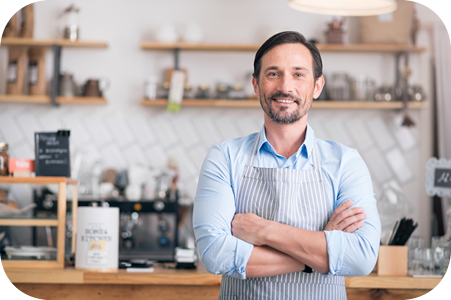
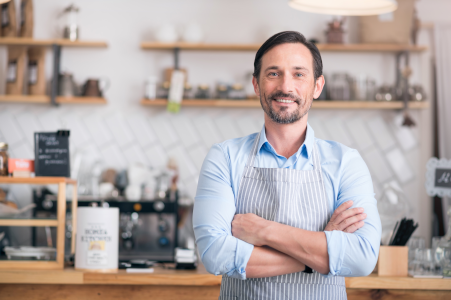
testing complete home page responsiveness

diff --git a/src/app/page.js b/src/app/page.js
@@ -11,7 +11,7 @@ import icoMemberPts from '@/assets/images/hmpgIcoPts.png';
 import icoMemberPhy from '@/assets/images/hmpgIcoPhy.png';
 import icoMemberEmp from '@/assets/images/hmpgIcoEmp.png';
 import hmpgLogo from '@/assets/images/logoLgt.png';
-import hmpgTablet from '@/assets/images/hmpgTablet.png';
+import hmpgTablet from '@/assets/images/hmpgTablet.jpg';
 import hmpgPts from '@/assets/images/hmpgIcoPts.png';
 import hmpgPhy from '@/assets/images/hmpgIcoPhy.png';
 import hmpgEmp from '@/assets/images/hmpgIcoEmp.png';
@@ -31,24 +31,24 @@ export default function Home() {
 							<div className='pbpgHdng'>Reuniting American Healthcare&apos;s Original Stakeholders to Restore the System to its Former Glory</div>
 						</div>
 					</div>
-					<div className='row mb-4'>
-						<div className='pbColSides text'>
+					<div className='row mb-4 d-flex align-items-center'>
+						<div className='pbColSides mb-3 mb-xl-0'>
 							<div className='pbpgText'>
-								<p>
+								<div className='mb-3'>
 									Introducing SUPERNOVA3X &ndash; a revolutionary Healthcare Software solution for America&apos;s ailing healthcare system,
 									empowering patients, employers, and physicians to take back control once and for all.
-								</p>
-								<p className='mb-4'>
+								</div>
+								<div>
 									&quot;The rules have changed. We are bidding farewell to the low-value, high-cost, overregulated system and welcoming
 									accessible, affordable healthcare like never before. Come and explore the Professional Healthcare Membership Platform that
 									has been specifically designed for American Healthcare&apos;s Original Stakeholders.&quot;
-								</p>
+								</div>
 							</div>
 						</div>
-						<div className='pbColCenter d-none d-lg-block'></div>
+						<div className='pbColCenter d-none d-xl-block'></div>
 						<div className='pbColSides'>
 							<div className='row'>
-								<div className='col-12 d-flex justify-content-center justify-content-lg-start'>
+								<div className='col-12 d-flex justify-content-center justify-content-xl-start'>
 									<Image className='pbColImg' src={hmpgTablet} priority={true} alt='Sample Offices' />
 								</div>
 							</div>
@@ -82,12 +82,12 @@ export default function Home() {
 			</div>
 			<div className='pbpgSection py-4'>
 				<div className='row mb-4'>
-					<div className='col-12 px-3 px-lg-5'>
+					<div className='col-12 px-3 px-xl-5'>
 						<div className='pbpgHdng'>Returning Financial Control of Healthcare to the Original Stake Holders</div>
 					</div>
 				</div>
 				<div className='row mb-4 d-flex justify-content-evenly justify-content-xl-center'>
-					<div className='finDiv mb-3 mb-xl-0'>
+					<div className='finDiv mb-5 mb-xl-0'>
 						<div className='row'>
 							<div className='col-12 d-flex justify-content-center'>
 								<Image className='hmpgIcoControl mb-3' src={hmpgPts} alt='Subscribers' />
@@ -126,6 +126,7 @@ export default function Home() {
 											<li className='finText'>And More</li>
 										</ul>
 									</ul>
+									<br />
 								</div>
 							</div>
 							<div className='row mt-5'>
@@ -141,7 +142,7 @@ export default function Home() {
 							</div>
 						</div>
 					</div>
-					<div className='finDiv mb-3 mb-xl-0 mx-xl-5'>
+					<div className='finDiv mb-5 mb-xl-0 mx-xl-5'>
 						<div className='row'>
 							<div className='col-12 d-flex justify-content-center'>
 								<Image className='hmpgIcoControl mb-3' src={hmpgPhy} alt='Physicians' />
@@ -180,6 +181,7 @@ export default function Home() {
 											<li className='finText'>Employer Integration</li>
 										</ul>
 									</ul>
+									<br />
 								</div>
 							</div>
 							<div className='row mt-5'>
@@ -227,13 +229,14 @@ export default function Home() {
 										<li className='finText'>More:</li>
 										<ul>
 											<li className='finText'>Network Directory</li>
-											<li className='finText'>Network Directory</li>
+											<li className='finText'>Prescription Plans</li>
 											<li className='finText'>Transparency</li>
 											<li className='finText'>No Gimmicks or Surprises</li>
 											<li className='finText'>No Failed Expectations</li>
 											<li className='finText'>No Premiums to increase</li>
 										</ul>
 									</ul>
+									<br />
 								</div>
 							</div>
 							<div className='row mt-5'>
@@ -259,7 +262,7 @@ export default function Home() {
 						</div>
 					</div>
 					<div className='row mb-4'>
-						<div className='pbColSides text'>
+						<div className='pbColSides d-flex align-items-center'>
 							<div className='row d-flex justify-content-center'>
 								<div className='col-12 mb-4'>
 									<div className='pbpgText center'>
@@ -276,8 +279,8 @@ export default function Home() {
 						</div>
 						<div className='pbColCenter d-none d-md-block'></div>
 						<div className='pbColSides'>
-							<div className='row'>
-								<div className='col-12 d-flex justify-content-center justify-content-lg-start'>
+							<div className='row mt-4 mt-xl-0'>
+								<div className='col-12 d-flex justify-content-center justify-content-xl-start'>
 									<Image className='pbColImg' src={hmpgMap} alt='Sample Offices' />
 								</div>
 							</div>
@@ -307,16 +310,16 @@ export default function Home() {
 							<div className='pbpgHdng'>For Patients</div>
 						</div>
 					</div>
-					<div className='row'>
-						<div className='pbColSides mb-4 mb-lg-0'>
+					<div className='row d-flex align-items-center'>
+						<div className='pbColSides mb-4 mb-xl-0'>
 							<div className='row'>
-								<div className='col-12 d-flex justify-content-center justify-content-lg-end'>
+								<div className='col-12 d-flex justify-content-center justify-content-xl-end'>
 									<Image className='pbColImg' src={hmpgPatient} alt='Patients' />
 								</div>
 							</div>
 						</div>
 						<div className='pbColCenter d-none d-md-block'></div>
-						<div className='pbColSides text'>
+						<div className='pbColSides'>
 							<div className='pbpgText center'>
 								<p>
 									<strong>
@@ -353,8 +356,8 @@ export default function Home() {
 							<div className='pbpgHdng'>For Physicians</div>
 						</div>
 					</div>
-					<div className='row'>
-						<div className='pbColSides text mb-2 mb-md-0'>
+					<div className='row d-flex align-items-center'>
+						<div className='pbColSides mb-2 mb-md-0'>
 							<div className='pbpgText center'>
 								<p>
 									<strong>
@@ -378,8 +381,8 @@ export default function Home() {
 						</div>
 						<div className='pbColCenter d-none d-md-block'></div>
 						<div className='pbColSides'>
-							<div className='row'>
-								<div className='col-12 d-flex justify-content-center justify-content-lg-start'>
+							<div className='row mt-4 mt-xl-0'>
+								<div className='col-12 d-flex justify-content-center justify-content-xl-start'>
 									<Image className='pbColImg red' src={hmpgPhysician} alt='Physicians' />
 								</div>
 							</div>
@@ -399,16 +402,16 @@ export default function Home() {
 							<div className='pbpgHdng'>For Sponsors</div>
 						</div>
 					</div>
-					<div className='row'>
-						<div className='pbColSides mb-4 mb-lg-0'>
+					<div className='row d-flex align-items-center'>
+						<div className='pbColSides mb-4 mb-xl-0'>
 							<div className='row'>
-								<div className='col-12 d-flex justify-content-center justify-content-lg-end'>
+								<div className='col-12 d-flex justify-content-center justify-content-xl-end'>
 									<Image className='pbColImg ppl' src={hmpgEmployer} alt='Employers' />
 								</div>
 							</div>
 						</div>
 						<div className='pbColCenter d-none d-md-block'></div>
-						<div className='pbColSides text'>
+						<div className='pbColSides'>
 							<div className='pbpgText center'>
 								<p>
 									<strong>Register for FREE with SUPERNOVA3X and access America&apos;s only Professional Healthcare Marketplace.</strong>
@@ -435,7 +438,7 @@ export default function Home() {
 			<div className='pbpgSection py-4'>
 				<div className='pbpgContainer'>
 					<div className='row mb-4'>
-						<div className='col-12 col-lg-10 offset-lg-1 px-3'>
+						<div className='col-12 px-3 px-lg-5'>
 							<div className='pbpgHdng'>Join the Revolution to Restore American Healthcare!</div>
 						</div>
 					</div>

diff --git a/src/app/globals.css b/src/app/globals.css
@@ -58,27 +58,11 @@
 	width: 47% !important;
 	height: auto;
 }
-.pbColSides.text {
-	width: 47% !important;
-	height: auto;
-	padding: 20px 40px;
-	border: 5px solid #555;
-	border-radius: 70px;
-}
 .pbpgText {
 	font-size: 17px;
 }
 .pbpgText.center {
 	text-align: center;
-}
-.pbpgText.blu {
-	color: #0000ff;
-}
-.pbpgText.red {
-	color: #ff0000;
-}
-.pbpgText.ppl {
-	color: #8000ff;
 }
 .pbColCenter {
 	width: 6% !important;
@@ -88,7 +72,7 @@
 	width: 100% !important;
 	height: auto;
 	border: 5px solid #555;
-	border-radius: 70px;
+	border-radius: 40px;
 }
 .icoSectionHdng {
 	width: auto;
@@ -141,40 +125,41 @@
 	.pbpgContainer {
 		width: 100%;
 	}
-	.pbColImg {
-		width: 90%;
-	}
-}
-
-@media screen and (max-width: 992px) {
 	.pbColSides {
 		width: 92% !important;
 		margin-left: 4%;
 		margin-right: 4%;
 	}
-	.pbColSides.text {
-		width: 92% !important;
-		margin-left: 4%;
-		margin-right: 4%;
-	}
-	.pbColImg {
-		width: 70%;
-		text-align: center;
-	}
-}
-
-@media screen and (max-width: 925px) {
 	.pbpgHdng {
 		font-size: 27px;
 		line-height: 35px;
 	}
 	.pbpgText {
-		font-size: 15px;
+		font-size: 17px;
+	}
+	.pbColImg {
+		width: 70% !important;
 	}
 }
 
+@media screen and (max-width: 992px) {
+}
+
 @media screen and (max-width: 768px) {
+	.pbpgHdng {
+		font-size: 25px;
+		line-height: 33px;
+	}
+	.pbpgText {
+		font-size: 15px;
+	}
 	.pbColImg {
-		width: 96%;
+		width: 80% !important;
+	}
+}
+
+@media screen and (max-width: 576px) {
+	.pbColImg {
+		width: 100% !important;
 	}
 }

diff --git a/src/components/public/header/Header.js b/src/components/public/header/Header.js
@@ -66,11 +66,11 @@ export default function Header() {
 
 	return (
 		<>
-			{(screenWidth > 1366 || screenHeight > 950) && (
+			{screenWidth >= 1200 && (
 				<div className='hdrContainer'>
 					<div className='row py-3 d-flex align-items-center justify-content-around'>
 						<div className='col-12 col-lg-4 ps-lg-4'>
-							<div className='row mb-4 mb-lg-0 d-flex justify-content-around justify-content-lg-start'>
+							<div className='row mb-2 mb-lg-0 d-flex justify-content-center justify-content-lg-start'>
 								<div className='col-3 col-lg-auto d-flex justify-content-center'>
 									<div className='row'>
 										<Link className='icoText blu' href='/subscribers/login'>
@@ -83,7 +83,7 @@ export default function Header() {
 										</Link>
 									</div>
 								</div>
-								<div className='col-3 col-lg-auto mx-lg-4 d-flex justify-content-center'>
+								<div className='col-3 col-lg-auto mx-1 mx-xl-4 d-flex justify-content-center'>
 									<div className='row'>
 										<Link className='icoText red' href='/physicians/login'>
 											<div className='col-12 d-flex justify-content-center'>
@@ -187,7 +187,7 @@ export default function Header() {
 					</div>
 				</div>
 			)}
-			{screenWidth <= 1366 && screenHeight <= 950 && (
+			{screenWidth < 1200 && (
 				<div className='hdrContainer'>
 					<div className='col-10 mb-2 offset-1'>
 						<Link className='d-flex justify-content-center' href='/'>

diff --git a/src/components/public/pagetemplate/PageTemplate.js b/src/components/public/pagetemplate/PageTemplate.js
@@ -32,14 +32,14 @@ export default function PageTemplate({ children }) {
 			<Suspense>
 				<Header />
 			</Suspense>
-			{(screenWidth > 1366 || screenHeight > 950) && (
+			{screenWidth >= 1200 && (
 				<div className='pgLgContainer'>
 					<div className='row'>
 						<div className='col-12'>{children}</div>
 					</div>
 				</div>
 			)}
-			{screenWidth <= 1366 && screenHeight <= 950 && (
+			{screenWidth < 1200 && (
 				<div className='pgSmContainer'>
 					<div className='row'>
 						<div className='col-12'>{children}</div>

diff --git a/src/components/public/header/Header.css b/src/components/public/header/Header.css
@@ -113,11 +113,14 @@
 
 @media screen and (max-width: 1366px) {
 	.hdrContainer {
-		padding-top: 30px;
+		padding-top: 10px;
 	}
 }
 
-@media screen and (max-width: 992px) {
+@media screen and (max-width: 1200px) {
+	.hdrContainer {
+		width: 96%;
+	}
 	.navLink {
 		font-weight: 600;
 	}

diff --git a/src/app/page.css b/src/app/page.css
@@ -69,8 +69,14 @@
 	}
 }
 
+@media screen and (max-width: 1200px) {
+	.finDiv {
+		width: 55%;
+	}
+}
+
 @media screen and (max-width: 768px) {
 	.finDiv {
-		width: 80%;
+		width: 70%;
 	}
 }

diff --git a/src/components/public/pagetemplate/PageTemplate.css b/src/components/public/pagetemplate/PageTemplate.css
@@ -6,5 +6,5 @@
 .pgSmContainer {
 	width: 100%;
 	min-height: 100vh;
-	padding-top: 140px;
+	padding-top: 110px;
 }
